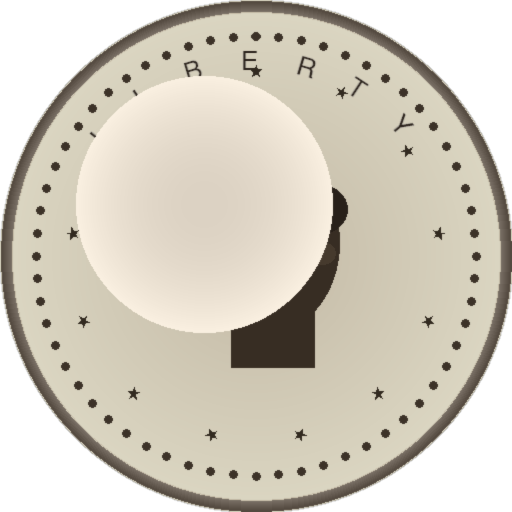
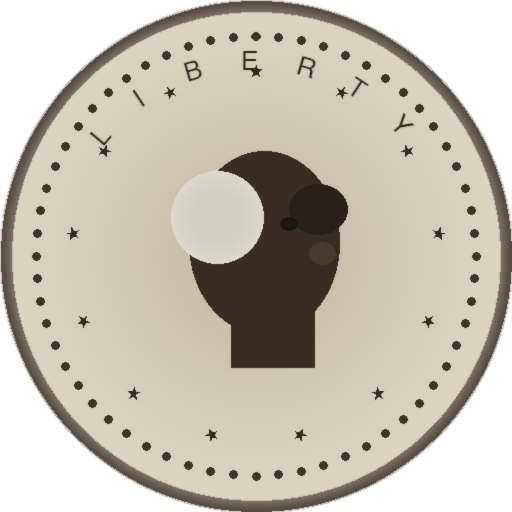
Second AI attempt. The coins look awful

Changed region(s): [[0.125, 0.125, 0.6562, 0.6562]]

diff --git a/_generate_coins.py b/_generate_coins.py
@@ -55,16 +55,18 @@ def draw_dots_ring(draw, r, count=60):
         )
 
 def draw_specular(draw, r):
-    """Draw specular highlight for 3D effect."""
-    highlight_r = r * 0.85
-    center_x = CX - r * 0.2
-    center_y = CY - r * 0.2
-    for i in range(int(r * 0.5), 0, -1):
-        t = i / (r * 0.5)
-        alpha = int(30 * t * t)
+    """Draw a subtle glossy sheen for 3D effect."""
+    center_x = CX - r * 0.15
+    center_y = CY - r * 0.15
+    max_i = int(r * 0.18)
+    for i in range(max_i, 0, -1):
+        t = i / max_i
+        # Very faint, fades to transparent quickly
+        alpha = int(12 * t * t * t)
+        base = 210
         draw.ellipse(
             [center_x - i, center_y - i, center_x + i, center_y + i],
-            fill=(220 + alpha, 210 + alpha, 195 + alpha)
+            fill=(base + alpha, base + alpha - 5, base + alpha - 15)
         )
 
 def draw_profile(draw, r):